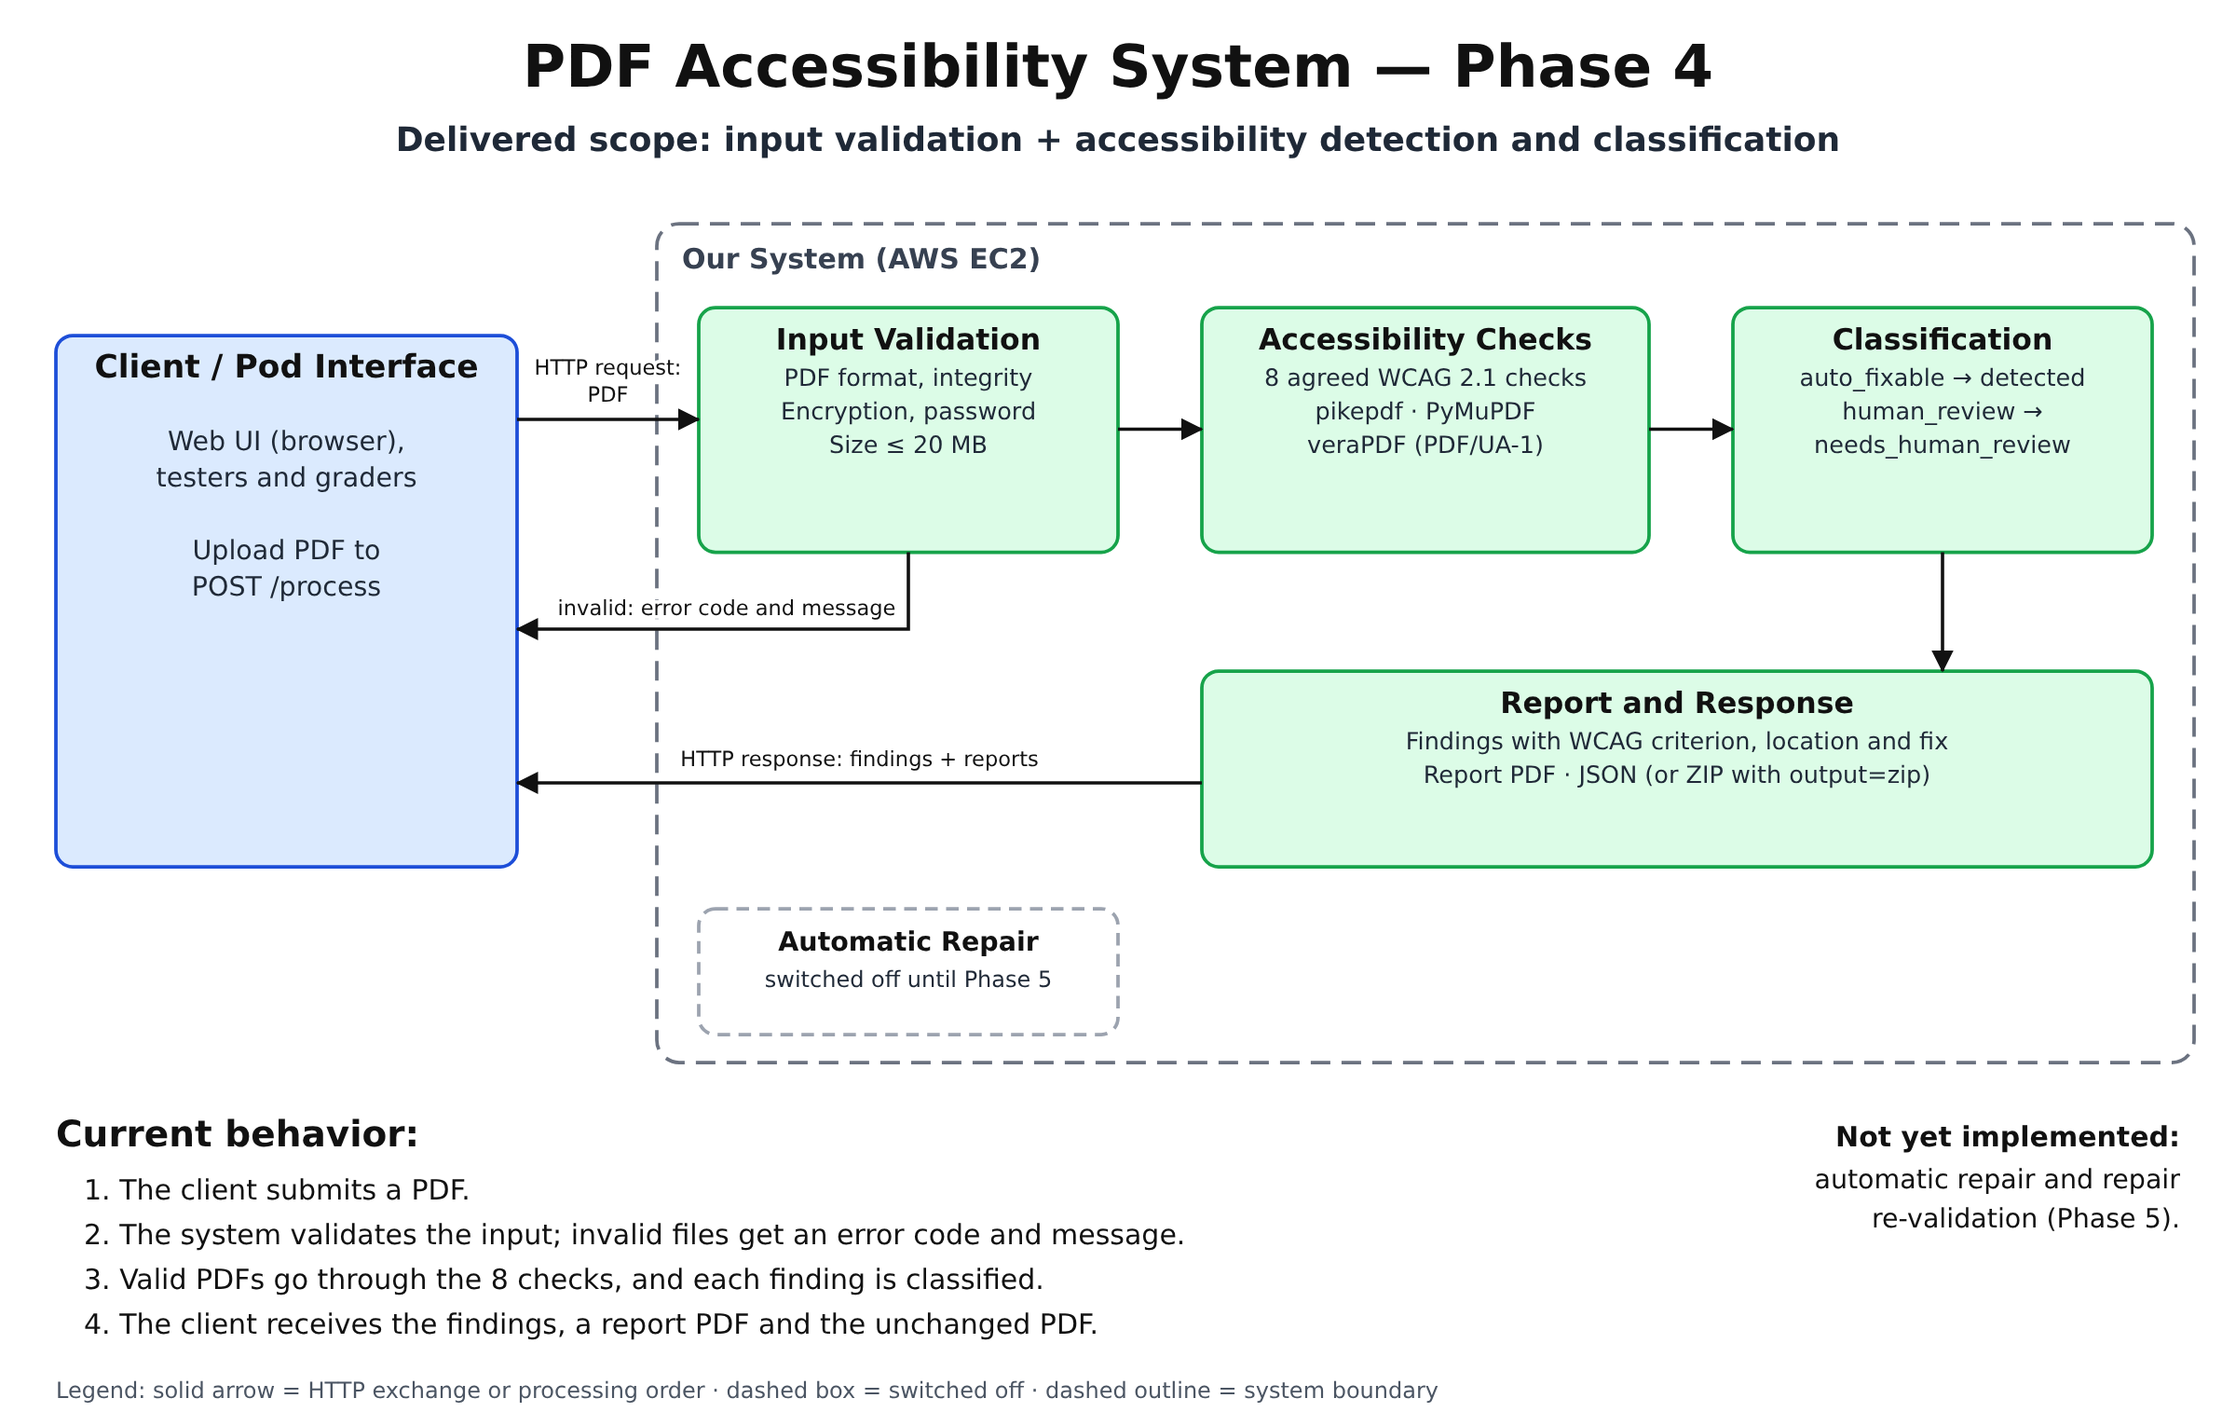
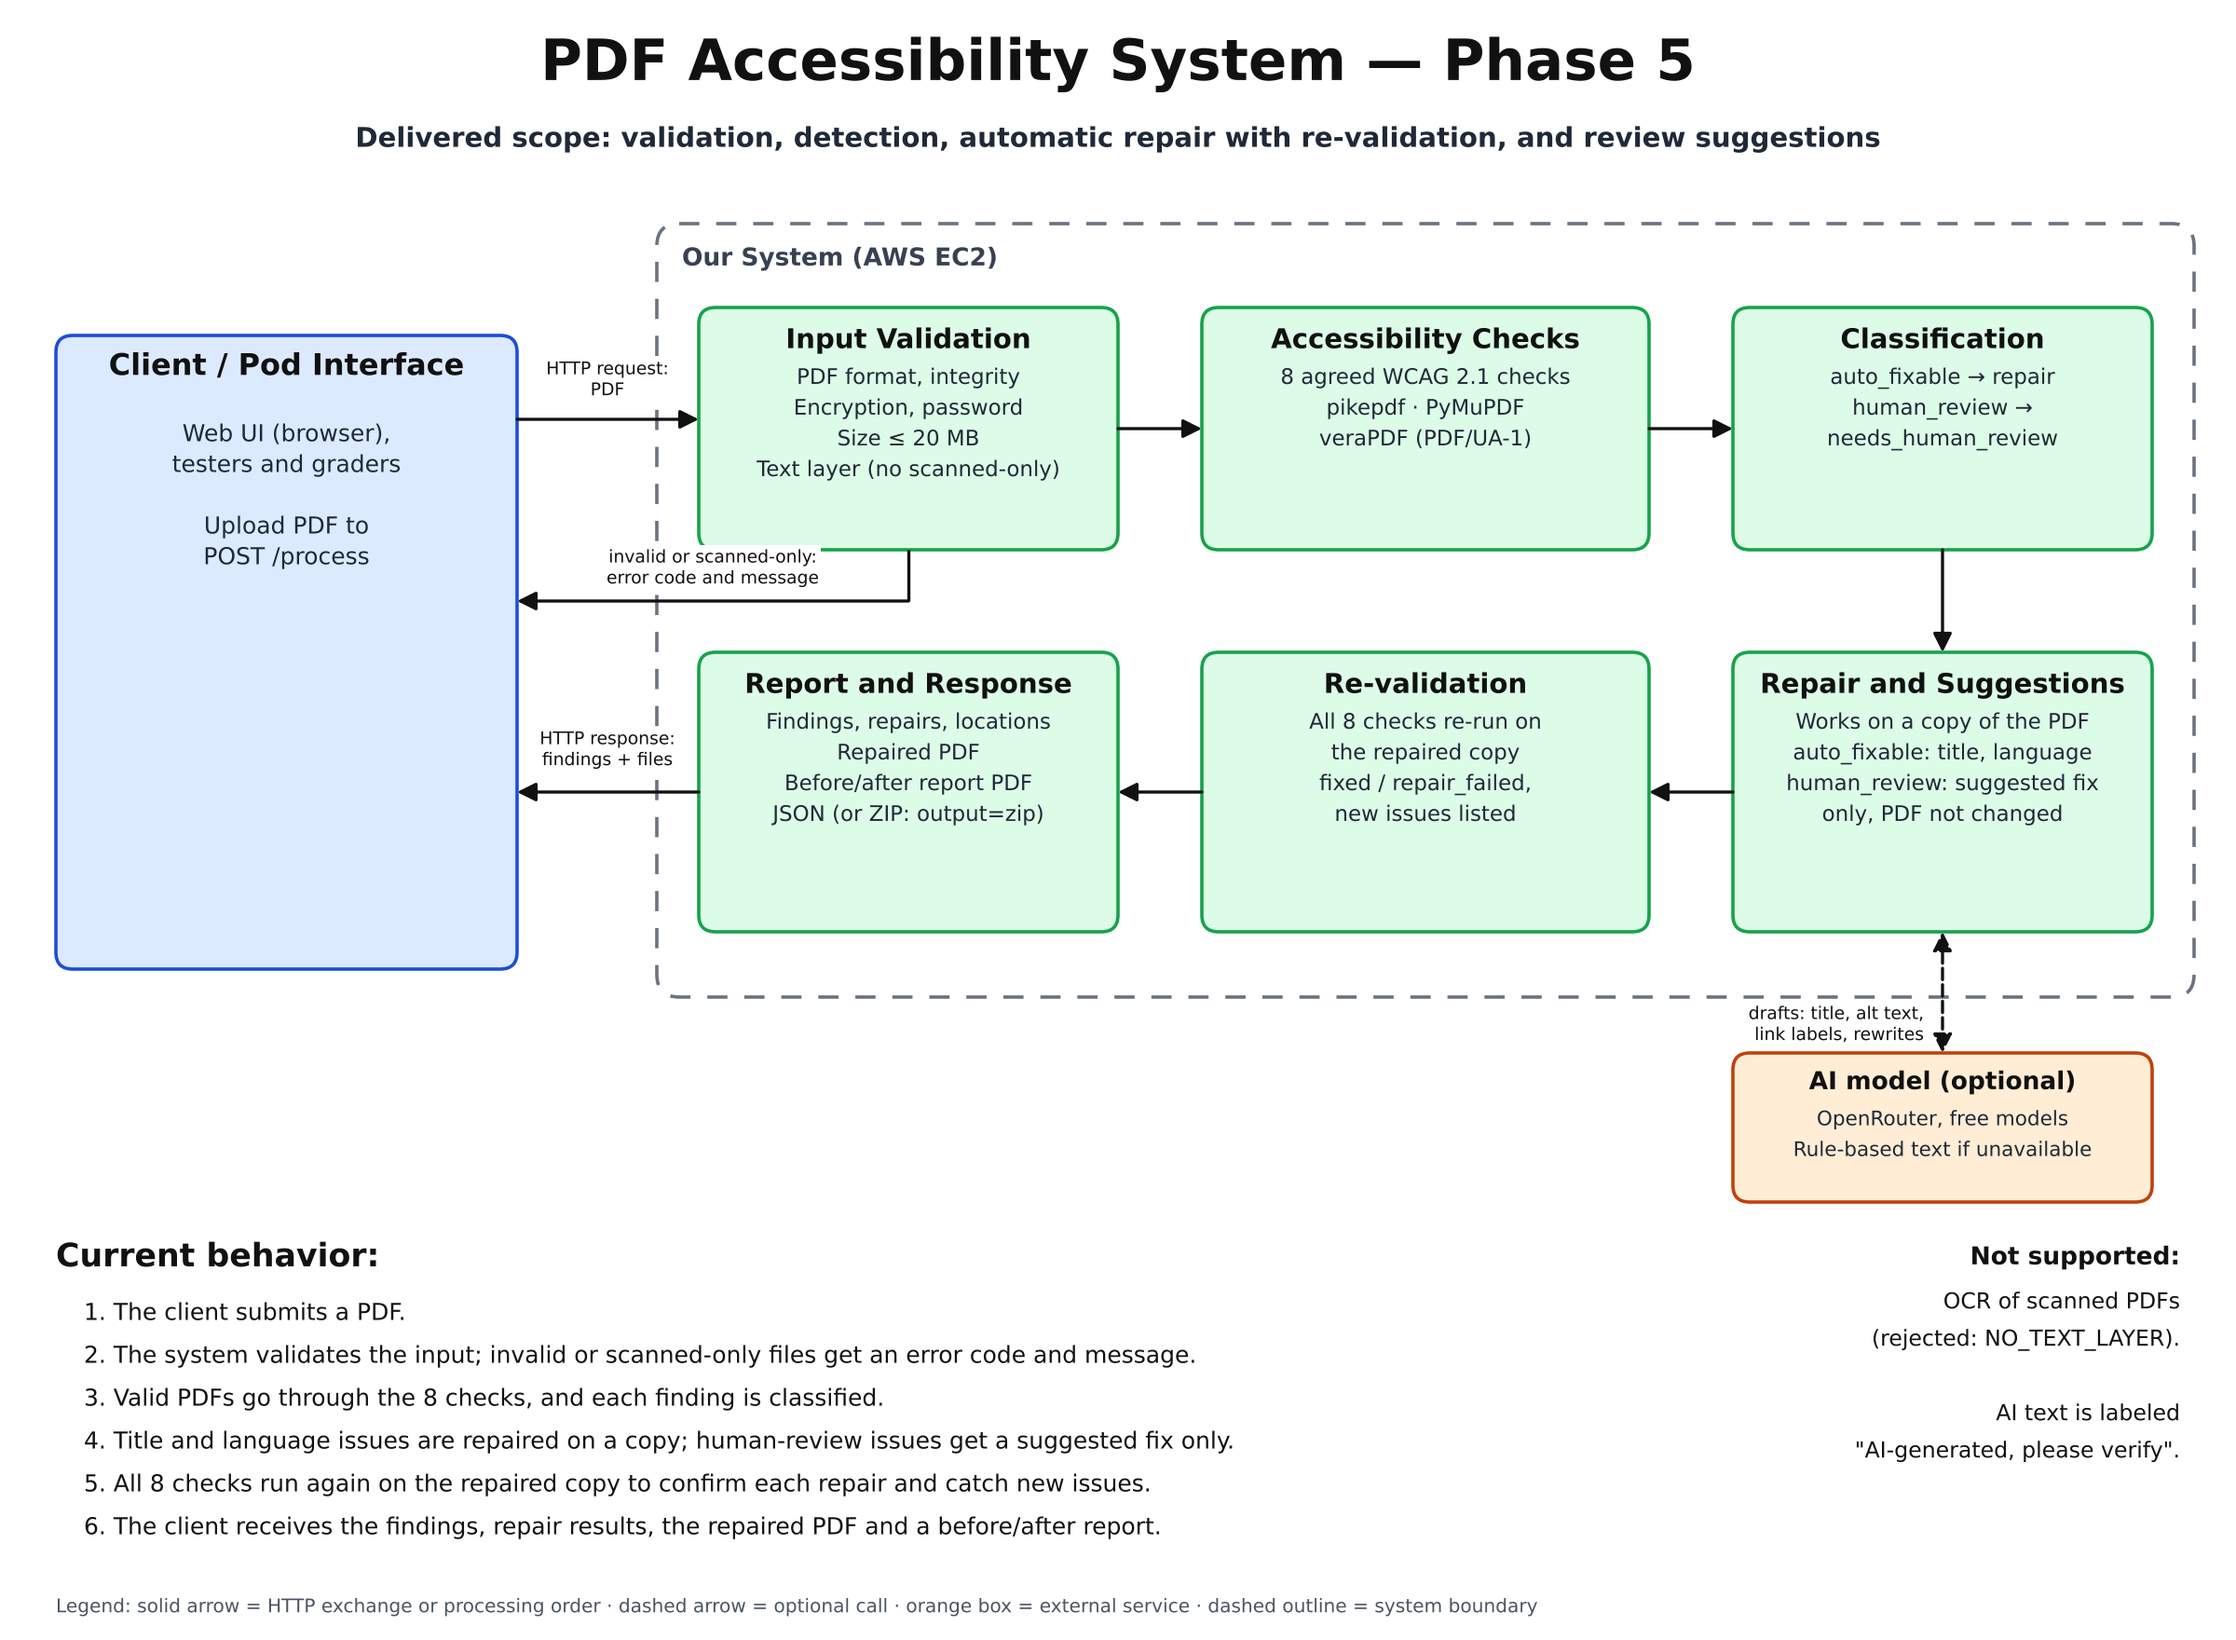
documentation update

diff --git a/README.md b/README.md
@@ -112,7 +112,27 @@ upload (see [`checks/README.md`](checks/README.md)); the image and structure che
 - **CHK-STRUCTURE (1.3.1):** checks for a nonempty structure tree, the tagged-document
   marker, malformed relationships, and tagged tables with data cells but no headers.
   Missing/empty structure is `fail`; marker, relationship and header concerns are
-  `needs_review`. Nested tables are inspected separately.
+  `needs_review`. Nested tables are inspected separately. In a tagged PDF, a paragraph
+  (`P`) drawn in exactly the same font and size as a tagged heading, short and without
+  sentence punctuation, is `heading_tagged_as_paragraph` (`needs_review`, suggested tag
+  e.g. `H2`): it looks like a heading but screen-reader heading navigation skips it.
+  The body-text style never counts as a heading style (`checks/marked_content.py` reads
+  each tag's text, font and size).
+- **CHK-HEADINGS (1.3.1, 2.4.6):** besides heading levels, empty headings and form
+  labels, a heading whose whole text says nothing about its section ("Miscellaneous",
+  "Other", "More information", "Section 3", "Untitled") is `heading_not_descriptive`
+  (`needs_review`); the suggestion quotes the section's first sentence as a hint.
+  Headings that only start with such a word ("Other services", "Section 3: Fees") are
+  not flagged.
+- **CHK-TITLE (2.4.2):** a missing, placeholder or file-name title, or `DisplayDocTitle`
+  not set. A title in the Info dictionary without an XMP `dc:title` copy is **not**
+  reported: WCAG technique PDF18 needs only the Info title plus `DisplayDocTitle`
+  (`dc:title` is a PDF/UA-1 rule). Titles the repairs write go into both.
+- **CHK-SENSORY (1.3.3) and CHK-COLOR (1.4.1)** look for instructions that rely on shape,
+  size, position or sound, and for color words (basic colors plus names like navy,
+  maroon, teal, crimson) used to convey meaning. "Above" and "below" are not sensory
+  cues: W3C's Understanding 1.3.3 treats them as references to content earlier or later
+  in reading order.
 - Both checks have `classification: human_review`, `status: needs_human_review`,
   and finding IDs in `human_review_items`. CHK-STRUCTURE provides rule-based suggestions only. CHK-NONTEXT offers AI-drafted alt text (or a decorative-image decision) as a suggestion; by default it is not written into the PDF, because REQ-06 and AC-04 say human-review issues are not changed automatically. `AI_WRITE_HUMAN_REVIEW_FIXES=true` writes it (Figure alt text or an artifact) once the pod and instructor agree to change REQ-06; the findings stay unresolved for human review either way.
 - CHK-TITLE and CHK-LANG findings are `auto_fixable` and are repaired automatically
@@ -134,7 +154,6 @@ before/after findings are matched by walking both files side by side
 | Check | Issue | Repair |
 |---|---|---|
 | CHK-TITLE | missing title, placeholder or file-name title | New title in Info `/Title` and XMP `dc:title`: an AI suggestion from page 1 if an LLM is set up, else the largest heading on page 1, else the cleaned file name |
-| CHK-TITLE | title only in Info, not XMP | Copies it into XMP `dc:title` (other Info fields are kept) |
 | CHK-TITLE | `DisplayDocTitle` not set | Sets `ViewerPreferences/DisplayDocTitle` to true |
 | CHK-LANG | missing or invalid document language | Corrects a broken tag (`en_US` → `en-US`, `English` → `en`), else detects the language from the text (`langdetect`, offline), else assumes `en-US` and says so in `limitations` |
 | CHK-LANG | invalid passage language | Corrects the tag, or removes it so the passage uses the document language |
@@ -151,7 +170,7 @@ before/after findings are matched by walking both files side by side
   and noted; an LLM problem never fails the request.
 - CHK-HEADINGS findings (human review) carry rule-based `suggested_text` where the fix
   is clear: the right heading level (`H1`, `H3`), or a form label from the field name
-  (`first_name` → "First name").
+  (`first_name` → "First name"). Vague headings get advice only, no suggested text.
 - Adding a repair, and the `llm.py` functions the AI hook expects:
   [`remediation/README.md`](remediation/README.md).
 
@@ -271,8 +290,11 @@ coverage 1435/1837. Rerun against the deployed system once Phase 5 is deployed.
   is not treated as a Figure `/Alt` replacement. Malformed/cyclic data produces review
   findings for incomplete inspection. Tree depth over 128, more than 100,000 structure
   nodes, or Form nesting over 64 also produces an incomplete-inspection finding.
-- CHK-SENSORY and CHK-COLOR use English text cues and CHK-LINK does not visit link
-  targets; these heuristics can miss issues or flag acceptable content.
+- CHK-SENSORY, CHK-COLOR and the vague-heading check use English word lists, and CHK-LINK
+  does not visit link targets; these heuristics can miss issues or flag acceptable
+  content. The heading-style check compares only the font and size of the first text in
+  each tag, so a heading told apart by color or spacing alone is not found, and text in
+  fonts with custom encodings may be shown garbled in the finding.
 - **Repairs cover CHK-TITLE and CHK-LANG.** CHK-NONTEXT alt text, CHK-LINK labels and
   CHK-COLOR/CHK-SENSORY rewrites are suggestions only by default (REQ-06, AC-04); image and
   link text is written into the PDF only with `AI_WRITE_HUMAN_REVIEW_FIXES=true`. A rule-based

diff --git a/checks/README.md b/checks/README.md
@@ -6,14 +6,15 @@ level and classification (auto_fixable / human_review) come from `catalog.py`.
 
 | Check | File | Uses |
 |---|---|---|
-| CHK-TITLE (2.4.2) | `title.py` | pikepdf (Info, XMP, ViewerPreferences), PyMuPDF metadata, veraPDF 7.1 |
+| CHK-TITLE (2.4.2) | `title.py` | pikepdf (Info, XMP, ViewerPreferences), PyMuPDF metadata, veraPDF 7.1 (an Info title without XMP `dc:title` is not a 2.4.2 finding) |
 | CHK-LANG (3.1.1) | `lang.py` | pikepdf (catalog and element /Lang), PyMuPDF (pages with text), veraPDF 7.2 |
-| CHK-HEADINGS (2.4.6) | `headings.py` | pikepdf (structure tree, RoleMap, form fields), PyMuPDF (font sizes), veraPDF 7.4 |
+| CHK-HEADINGS (2.4.6) | `headings.py` | pikepdf (structure tree, RoleMap, form fields), PyMuPDF (font sizes), tagged heading text (`marked_content.py`) for vague headings, veraPDF 7.4 |
 | CHK-SENSORY (1.3.3) | `sensory.py` | English instruction/sensory text cues, page locations |
+| (shared) | `marked_content.py` | text, font and size of each tagged element (MCIDs in page content) |
 | CHK-COLOR (1.4.1) | `color.py` | English color/meaning cues and multicolor vector graphics |
 | CHK-LINK (2.4.4) | `link.py` | pikepdf annotations/tagged alternatives, PyMuPDF labels, veraPDF PDF/UA-1 7.18.5 |
 | CHK-NONTEXT (1.1.1) | `nontext.py` → `pdf_checks.py` | pikepdf (Figure /Alt, images in page content, Form XObjects, inline images), veraPDF 7.3 |
-| CHK-STRUCTURE (1.3.1) | `structure.py` → `pdf_checks.py` | pikepdf (structure tree, MarkInfo, relationships, table headers), veraPDF 7.1 tagging and 7.5 tables |
+| CHK-STRUCTURE (1.3.1) | `structure.py` → `pdf_checks.py` | pikepdf (structure tree, MarkInfo, relationships, table headers), tag text/font/size (`marked_content.py`) for paragraphs styled as headings, veraPDF 7.1 tagging and 7.5 tables |
 
 Person 2 behavior, reproducible PDFs and test expectations are documented in
 [`test_fixtures/person2/README.md`](../test_fixtures/person2/README.md). These
